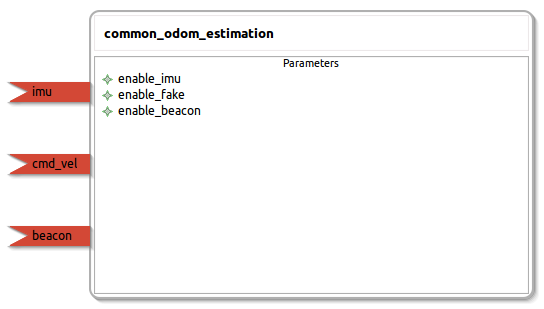
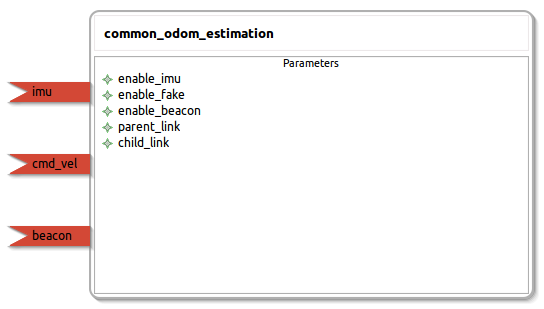
[ODOM] Starting to code.

Changed region(s): [[0.1875, 0.3786, 0.3438, 0.4951]]

diff --git a/common_odom_estimation/common/src/common_odom_estimation_common.cpp b/common_odom_estimation/common/src/common_odom_estimation_common.cpp
@@ -5,6 +5,8 @@
 #include <geometry_msgs/Pose2D.h>
 
 /* protected region user include files on begin */
+#include <tf/transform_broadcaster.h>
+#include <geometry_msgs/PoseStamped.h>
 /* protected region user include files end */
 
 class common_odom_estimation_config
@@ -13,6 +15,8 @@ public:
     int enable_imu;
     int enable_fake;
     int enable_beacon;
+    std::string parent_link;
+    std::string child_link;
 };
 
 class common_odom_estimation_data
@@ -29,18 +33,64 @@ public:
 class common_odom_estimation_impl
 {
     /* protected region user member variables on begin */
+	bool enable_imu;
+	bool enable_fake;
+	bool enable_beacon;
+
+	tf::StampedTransform t;
+	tf::TransformBroadcaster broadcaster;
+
+	geometry_msgs::PoseStamped pose;
     /* protected region user member variables end */
 
 public:
     common_odom_estimation_impl() 
     {
         /* protected region user constructor on begin */
-        /* protected region user constructor end */
+    	enable_imu = false;
+    	enable_fake = false;
+    	enable_beacon = false;
+
+    	pose.pose.position.x = 0.0;
+    	pose.pose.position.y = 0.0;
+    	pose.pose.position.z = 0.0;
+
+    	pose.pose.orientation.x = 0.0;
+    	pose.pose.orientation.y = 0.0;
+    	pose.pose.orientation.z = 0.0;
+    	pose.pose.orientation.w = 1.0;
+    	/* protected region user constructor end */
     }
 
     void configure(common_odom_estimation_config config) 
     {
         /* protected region user configure on begin */
+    	if(config.enable_imu != 0)
+    	{
+    		enable_imu = true;
+    	}
+    	else
+    	{
+    		enable_imu = false;
+    	}
+
+    	if(config.enable_fake != 0)
+    	{
+    	    enable_fake = true;
+    	}
+    	else
+    	{
+    		enable_fake = false;
+    	}
+
+    	if(config.enable_beacon != 0)
+    	{
+    	    enable_beacon = true;
+    	}
+    	else
+    	{
+    		enable_beacon = false;
+    	}
         /* protected region user configure end */
     }
 
@@ -53,6 +103,26 @@ public:
     void topicCallback_imu(const sensor_msgs::Imu::ConstPtr& msg)
     {
         /* protected region user implementation of subscribe callback for imu on begin */
+    	if(enable_fake)
+    	{
+    		//pose.pose.position.x =
+
+    		pose.pose.orientation.x = msg->orientation.x;
+    		pose.pose.orientation.y = msg->orientation.y;
+    		pose.pose.orientation.z = msg->orientation.z;
+    		pose.pose.orientation.w = msg->orientation.w;
+    		/*
+    		t = tf::StampedTransform(tf::Transform(tf::createQuaternionFromYaw(z), tf::Vector3(0.0, 0.0, 0.0)),
+    		                                ros::Time::now(), "/petit_odom_link", "/petit_base_link");
+
+    		t.stamp_ = ros::Time::now();
+    		broadcaster.sendTransform(t);
+    		*/
+    	}
+    	else
+    	{
+
+    	}
         /* protected region user implementation of subscribe callback for imu end */
     }
     void topicCallback_cmd_vel(const geometry_msgs::Twist::ConstPtr& msg)

diff --git a/common_odom_estimation/ros/src/common_odom_estimation_ros.cpp b/common_odom_estimation/ros/src/common_odom_estimation_ros.cpp
@@ -42,6 +42,8 @@ class common_odom_estimation_ros
         np_.param("enable_imu", component_config_.enable_imu, (int)0);
         np_.param("enable_fake", component_config_.enable_fake, (int)1);
         np_.param("enable_beacon", component_config_.enable_beacon, (int)0);
+        np_.param("parent_link", component_config_.parent_link, (std::string)"map");
+        np_.param("child_link", component_config_.child_link, (std::string)"base_link");
     }
     void topicCallback_imu(const sensor_msgs::Imu::ConstPtr& msg)
     {
@@ -61,6 +63,8 @@ class common_odom_estimation_ros
         component_config_.enable_imu = config.enable_imu;
         component_config_.enable_fake = config.enable_fake;
         component_config_.enable_beacon = config.enable_beacon;
+        component_config_.parent_link = config.parent_link;
+        component_config_.child_link = config.child_link;
         configure();
     }
 

diff --git a/common_odom_estimation/README.md b/common_odom_estimation/README.md
@@ -22,6 +22,14 @@ Node: common_odom_estimation
 <!--- protected region enable_beacon on begin -->
 <!--- protected region enable_beacon end -->
 
+**parent_link** *(string, default: map)*
+<!--- protected region parent_link on begin -->
+<!--- protected region parent_link end -->
+
+**child_link** *(string, default: base_link)*
+<!--- protected region child_link on begin -->
+<!--- protected region child_link end -->
+
 
 #### Published Topics
 
